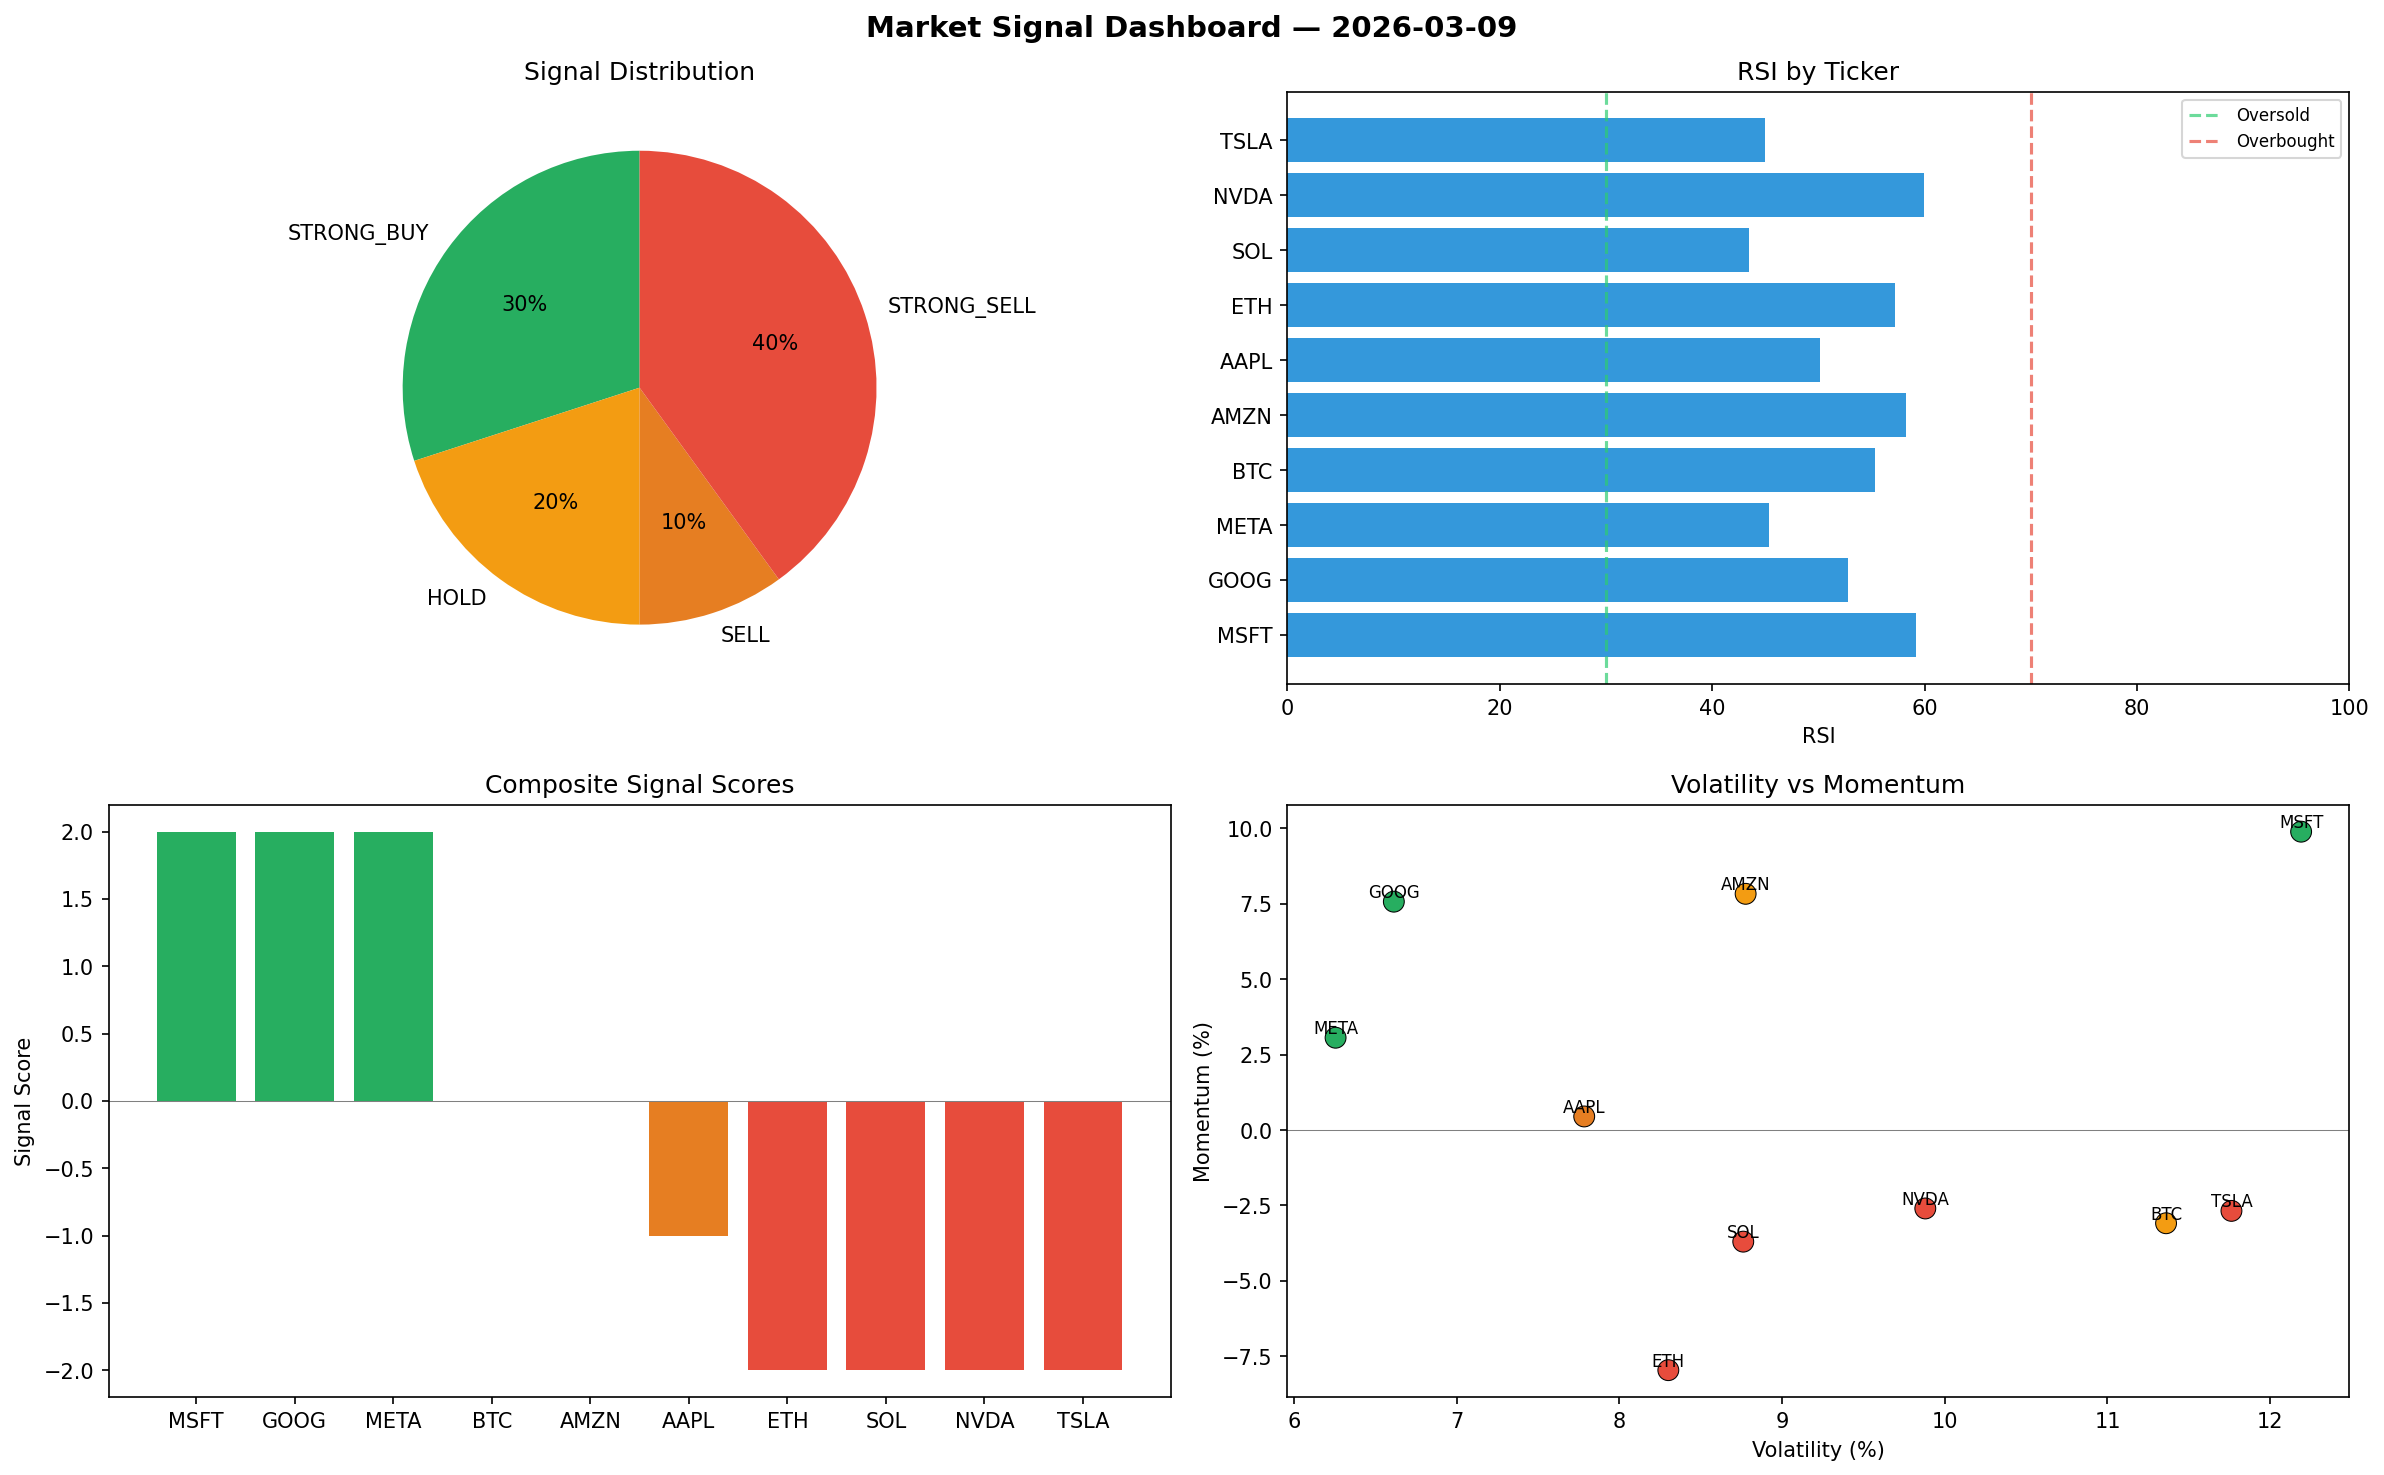
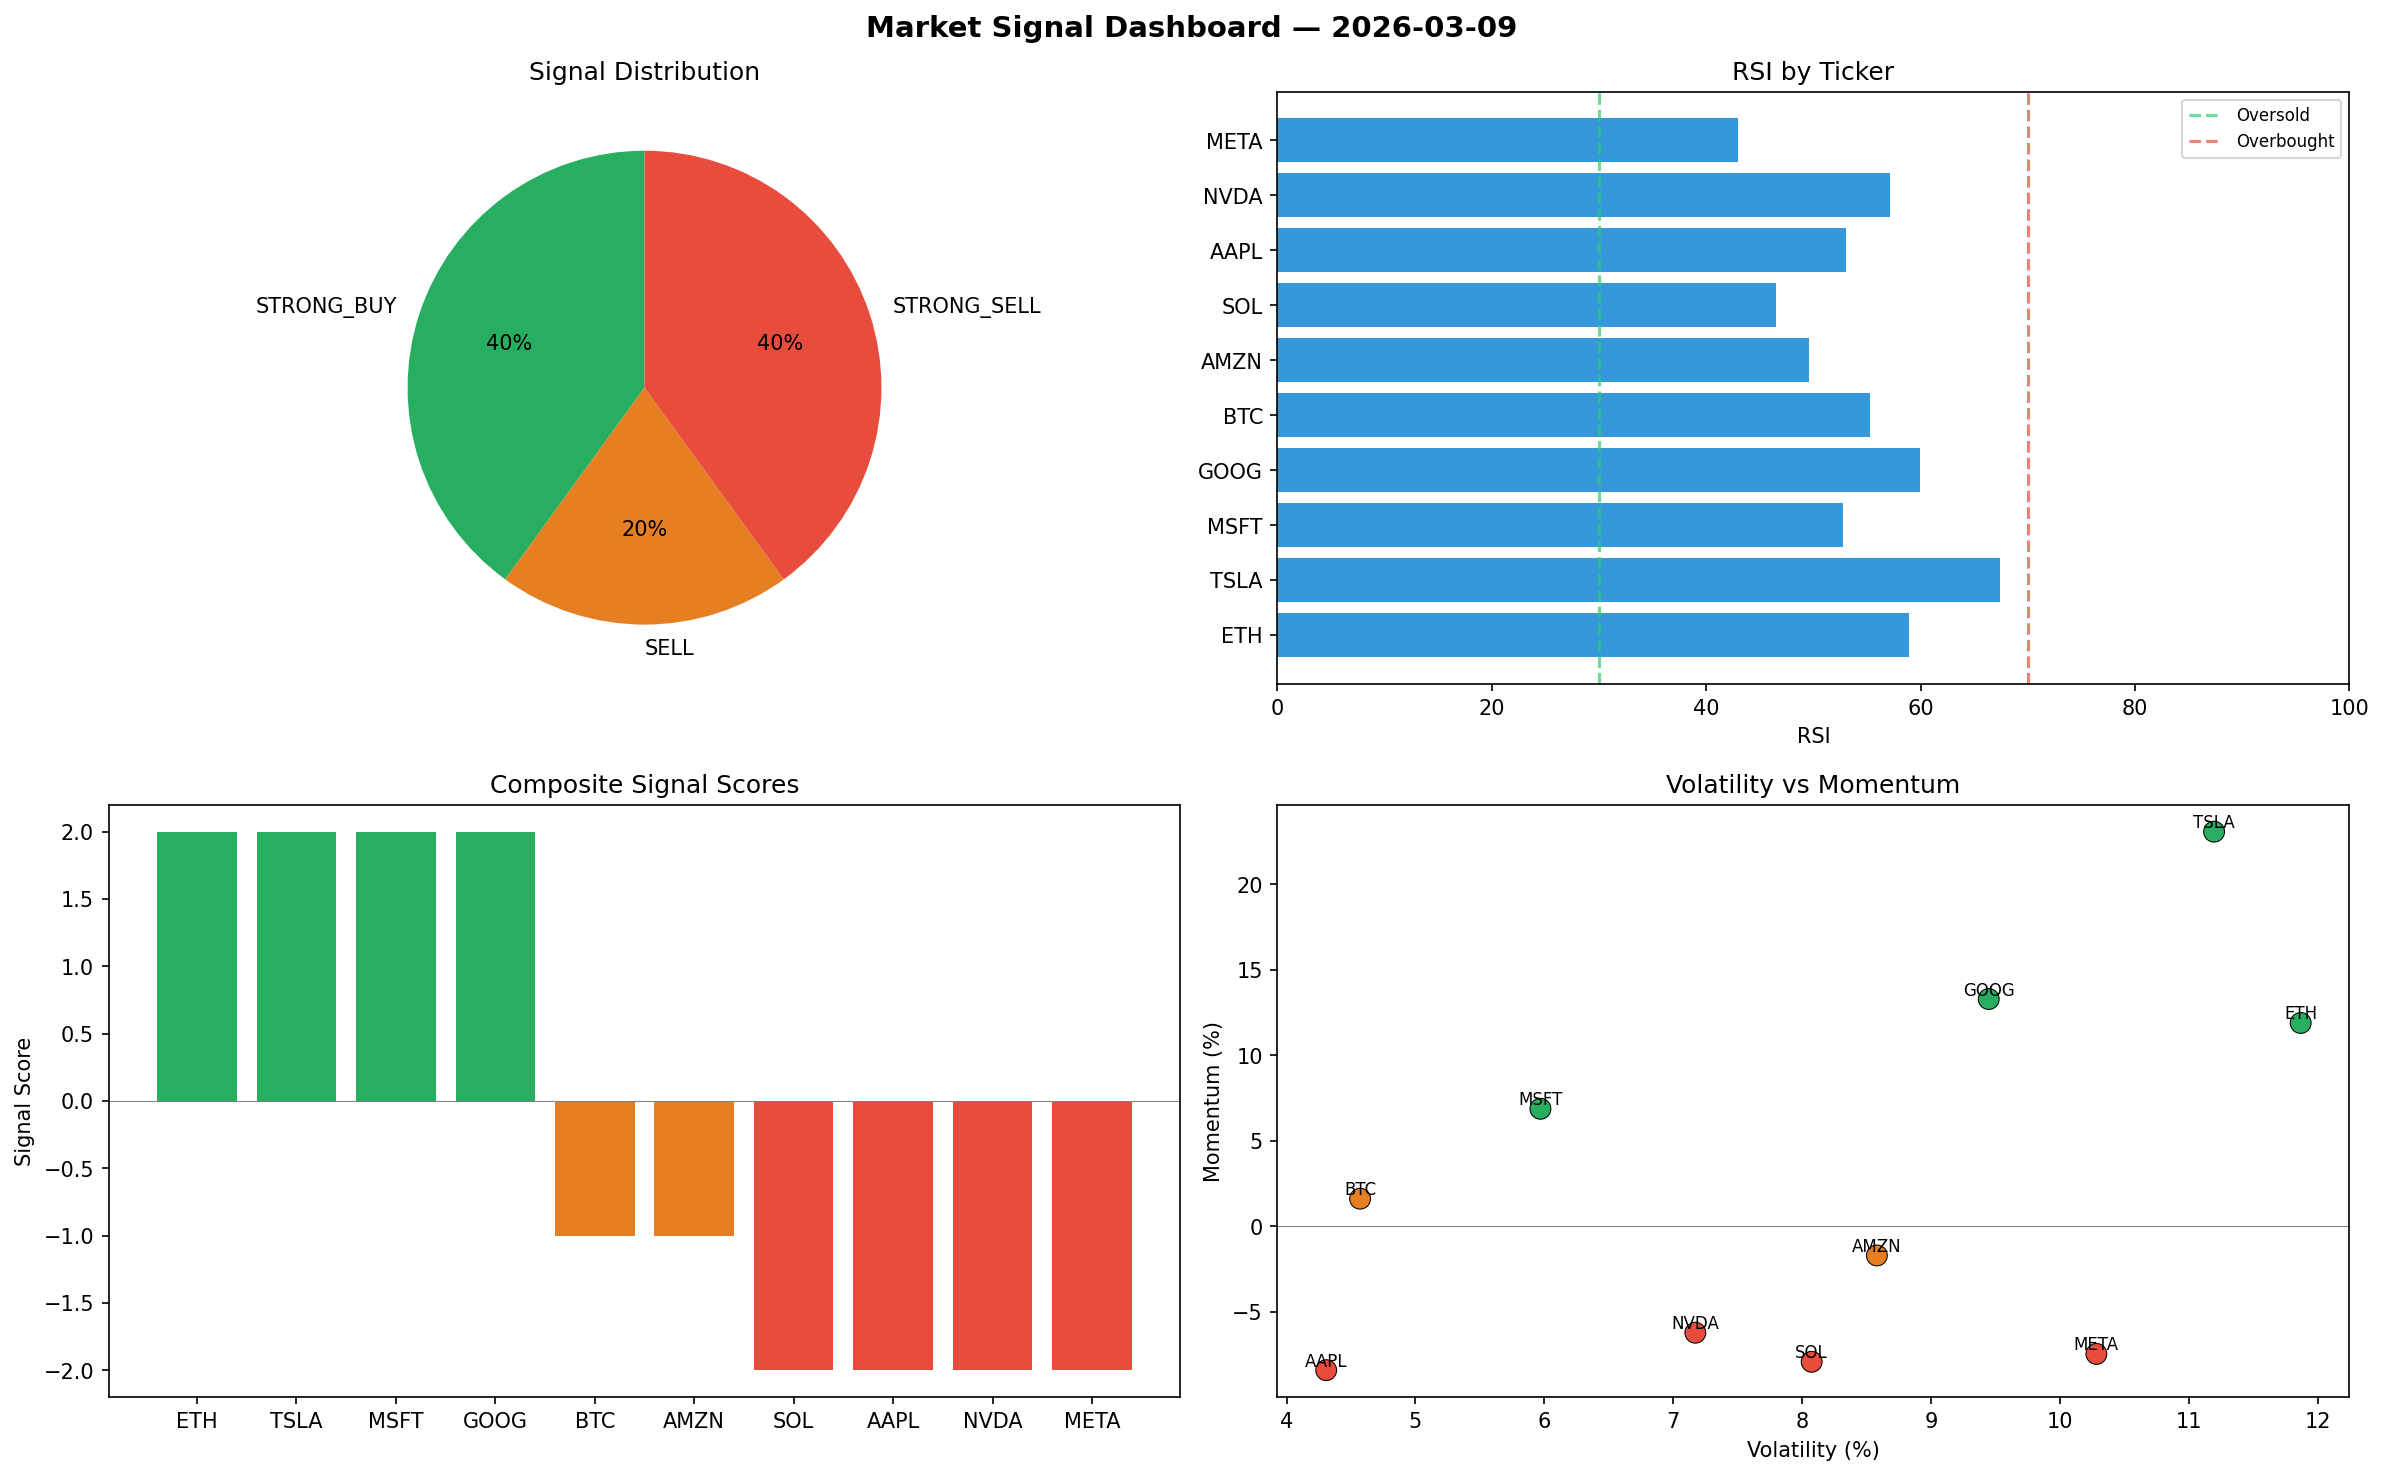
automated-bots: market signals 2026-03-09T09:06

diff --git a/logs/2026-03-09.md b/logs/2026-03-09.md
@@ -1,6 +1,6 @@
 # Market Signal Report — 2026-03-09
 
-**Run ID:** `fbda7ee82d` | **Buy:** 3 | **Sell:** 5 | **Hold:** 2
+**Run ID:** `65b2d59929` | **Buy:** 4 | **Sell:** 6 | **Hold:** 0
 
 ![Dashboard](2026-03-09_dashboard.png)
 
@@ -8,28 +8,28 @@
 
 | Ticker | Price | Signal | Score | RSI | Momentum | Confidence |
 |--------|-------|--------|-------|-----|----------|------------|
-| MSFT | $2765.94 | **STRONG_BUY** | 2 | 59.21 | 0.0989 | 0.5 |
-| GOOG | $1584.34 | **STRONG_BUY** | 2 | 52.79 | 0.0757 | 0.5 |
-| META | $1024.26 | **STRONG_BUY** | 2 | 45.33 | 0.0306 | 0.5 |
-| BTC | $1310.99 | **HOLD** | 0 | 55.34 | -0.0309 | 0.0 |
-| AMZN | $2883.27 | **HOLD** | 0 | 58.26 | 0.0783 | 0.0 |
-| AAPL | $681.97 | **SELL** | -1 | 50.13 | 0.0045 | 0.25 |
-| ETH | $2661.16 | **STRONG_SELL** | -2 | 57.2 | -0.0796 | 0.5 |
-| SOL | $2094.97 | **STRONG_SELL** | -2 | 43.48 | -0.037 | 0.5 |
-| NVDA | $2304.15 | **STRONG_SELL** | -2 | 59.91 | -0.026 | 0.5 |
-| TSLA | $3468.08 | **STRONG_SELL** | -2 | 45.02 | -0.0268 | 0.5 |
+| ETH | $979.52 | **STRONG_BUY** | 2 | 58.88 | 0.119 | 0.5 |
+| TSLA | $826.12 | **STRONG_BUY** | 2 | 67.42 | 0.2309 | 0.5 |
+| MSFT | $4116.33 | **STRONG_BUY** | 2 | 52.74 | 0.0688 | 0.5 |
+| GOOG | $1805.81 | **STRONG_BUY** | 2 | 59.92 | 0.133 | 0.5 |
+| BTC | $352.35 | **SELL** | -1 | 55.24 | 0.0162 | 0.25 |
+| AMZN | $914.47 | **SELL** | -1 | 49.56 | -0.017 | 0.25 |
+| SOL | $574.54 | **STRONG_SELL** | -2 | 46.52 | -0.0792 | 0.5 |
+| AAPL | $3850.71 | **STRONG_SELL** | -2 | 53.01 | -0.0841 | 0.5 |
+| NVDA | $1060.83 | **STRONG_SELL** | -2 | 57.15 | -0.0622 | 0.5 |
+| META | $2290.41 | **STRONG_SELL** | -2 | 42.94 | -0.0746 | 0.5 |
 
 ## Delta vs Yesterday
 
 | Ticker | Today | Yesterday | Price Change | Signal Changed |
 |--------|-------|-----------|-------------|----------------|
-| MSFT | STRONG_BUY | SELL | 📈 23.08% | ⚠ YES |
-| GOOG | STRONG_BUY | HOLD | 📉 -46.3% | ⚠ YES |
-| META | STRONG_BUY | BUY | 📈 1457.34% | ⚠ YES |
-| BTC | HOLD | HOLD | 📉 -71.1% | — |
-| AMZN | HOLD | STRONG_SELL | 📈 1889.29% | ⚠ YES |
-| AAPL | SELL | STRONG_SELL | 📈 272.56% | ⚠ YES |
-| ETH | STRONG_SELL | STRONG_BUY | 📉 -26.35% | ⚠ YES |
-| SOL | STRONG_SELL | SELL | 📉 -51.47% | ⚠ YES |
-| NVDA | STRONG_SELL | STRONG_BUY | 📉 -43.48% | ⚠ YES |
-| TSLA | STRONG_SELL | HOLD | 📉 -16.13% | ⚠ YES |
+| ETH | STRONG_BUY | STRONG_BUY | 📉 -72.89% | — |
+| TSLA | STRONG_BUY | HOLD | 📉 -80.02% | ⚠ YES |
+| MSFT | STRONG_BUY | SELL | 📈 83.17% | ⚠ YES |
+| GOOG | STRONG_BUY | HOLD | 📉 -38.8% | ⚠ YES |
+| BTC | SELL | HOLD | 📉 -92.23% | ⚠ YES |
+| AMZN | SELL | STRONG_SELL | 📈 530.93% | ⚠ YES |
+| SOL | STRONG_SELL | SELL | 📉 -86.69% | ⚠ YES |
+| AAPL | STRONG_SELL | STRONG_SELL | 📈 2003.64% | — |
+| NVDA | STRONG_SELL | STRONG_BUY | 📉 -73.98% | ⚠ YES |
+| META | STRONG_SELL | BUY | 📈 3382.45% | ⚠ YES |
